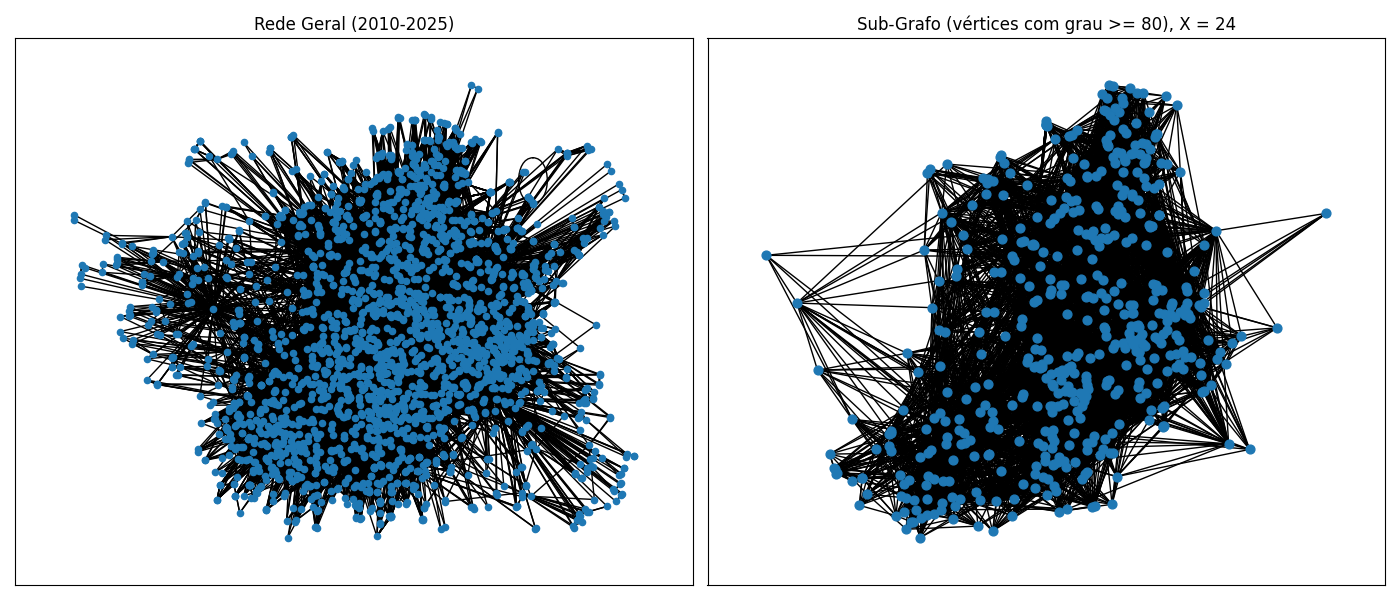
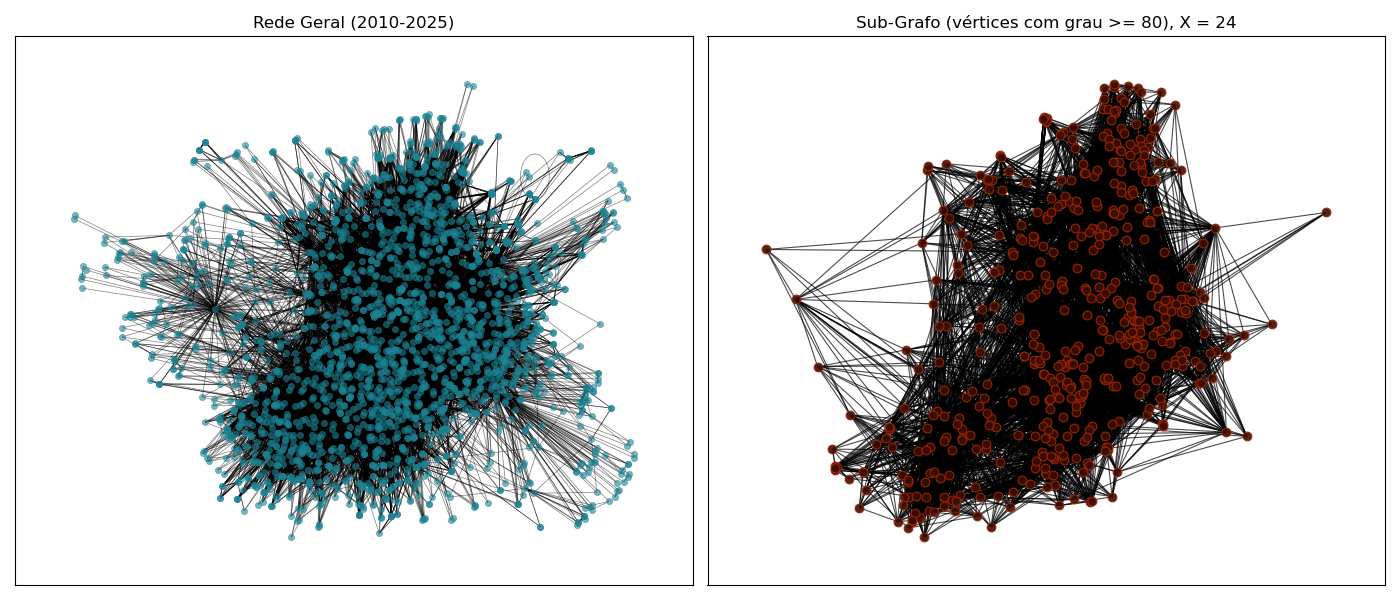
graf ready

diff --git a/R3.py b/R3.py
@@ -84,6 +84,7 @@ def comparar_densidade(rede_geral: nx.Graph, subgrafo: nx.Graph):
 # =============================================================================
 # PASSO 5: Visualizar a rede geral e o sub-grafo
 # =============================================================================
+
 def visualizar_grafos(rede_geral: nx.Graph, subgrafo: nx.Graph):
     # Utiliza o mesmo layout para facilitar comparação
     pos = nx.spring_layout(rede_geral, seed=42)  # fixa o seed para consistência
@@ -91,22 +92,48 @@ def visualizar_grafos(rede_geral: nx.Graph, subgrafo: nx.Graph):
     
     # Plotando a rede geral
     plt.subplot(1, 2, 1)
-    nx.draw_networkx(rede_geral, pos=pos, node_size=20, with_labels=False)
-    plt.title("Rede Geral (2010-2025)")
+    # Arestas
+    nx.draw_networkx_edges(rede_geral, pos=pos,
+                        edge_color='black',
+                        width=0.5,
+                        alpha=0.5)
+    # Nós
+    nx.draw_networkx_nodes(rede_geral, pos=pos,
+                        node_color="#1C8394",
+                        node_size=20,
+                        alpha=0.6,
+                        edgecolors='#1C8394',
+                        linewidths=0.5)
     
+    # Labels (não exibido para não poluir)
+    plt.title("Rede Geral (2010-2025)", fontsize=12)
+
     # Plotando o sub-grafo
     plt.subplot(1, 2, 2)
-    nx.draw_networkx(subgrafo, pos=pos, node_size=40, with_labels=False)
-    plt.title("Sub-Grafo (vértices com grau >= 80), X = 24")
+    # Arestas
+    nx.draw_networkx_edges(subgrafo, pos=pos,
+                           edge_color='black',
+                           width=0.8,
+                           alpha=0.7)
+    # Nós
+    nx.draw_networkx_nodes(subgrafo, pos=pos,
+                        node_color="#390D02",
+                        node_size=40,
+                        alpha=0.9, 
+                        edgecolors='#A52502',
+                        linewidths=0.8)
+    
+    # Labels (também oculto)
+    plt.title("Sub-Grafo (vértices com grau >= 80), X = 24", fontsize=12)
     
     plt.tight_layout()
-    plt.show() 
+    plt.show()
 
 
 # =============================================================================
 # PASSO 6: Analisar a rede ego de um vértice escolhido
 # =============================================================================
-def analisar_rede_ego(rede_geral: nx.Graph, no_escolhido=None):
+""" def analisar_rede_ego(rede_geral: nx.Graph, no_escolhido=None):
     # Se nenhum nodo for especificado, escolhe o de maior grau
     if no_escolhido is None:
         no_escolhido = max(rede_geral.degree, key=lambda x: x[1])[0]
@@ -130,7 +157,8 @@ def analisar_rede_ego(rede_geral: nx.Graph, no_escolhido=None):
     
     nx.draw_networkx_nodes(ego, pos=pos,
                         node_color='#1C8394',
-                        node_size=100)
+                        alpha=0.8,
+                        node_size=50)
     
     #nx.draw_networkx_labels(ego, pos=pos, font_size=10, font_color='black')
 
@@ -138,6 +166,74 @@ def analisar_rede_ego(rede_geral: nx.Graph, no_escolhido=None):
     plt.show()
     
     return ego
+ """
+
+def analisar_rede_ego(rede_geral: nx.Graph, no_escolhido=None):
+    # Se nenhum nodo for especificado, escolhe o de maior grau
+    if no_escolhido is None:
+        no_escolhido = max(rede_geral.degree, key=lambda x: x[1])[0]
+    ego = nx.ego_graph(rede_geral, no_escolhido)
+
+    # Calcula métricas básicas
+    grau_nodo = rede_geral.degree[no_escolhido]
+    densidade_ego = nx.density(ego)
+    num_nos = ego.number_of_nodes()
+    num_arestas = ego.number_of_edges()
+    grau_medio = sum(dict(ego.degree()).values()) / num_nos
+    clustering_medio = nx.average_clustering(ego)
+
+    # Tenta calcular o diâmetro (só se o grafo for conexo)
+    try:
+        diametro = nx.diameter(ego)
+    except nx.exception.NetworkXError:
+        diametro = "Grafo não conexo"
+
+    vizinhos = list(ego.neighbors(no_escolhido))
+
+    print(f"--- Análise da Rede Ego ---")
+    print(f"Nó escolhido: {no_escolhido}")
+    print(f"Grau do nodo na rede geral: {grau_nodo}")
+    print(f"Número de nós na rede ego: {num_nos}")
+    print(f"Número de arestas na rede ego: {num_arestas}")
+    print(f"Grau médio: {grau_medio:.2f}")
+    print(f"Densidade: {densidade_ego:.4f}")
+    print(f"Clustering médio: {clustering_medio:.4f}")
+    print(f"Diâmetro: {diametro}")
+    print(f"Vizinhos do nó: {vizinhos}")
+
+    # Visualização
+    plt.figure(figsize=(6, 6))
+    pos = nx.spring_layout(ego, seed=42)
+
+    # Destaca o nó central
+    node_colors = []
+    for node in ego.nodes():
+        if node == no_escolhido:
+            node_colors.append('#FF5733')  # Cor especial para o centro
+        else:
+            node_colors.append('#1C8394')  # Outros nós
+
+    nx.draw_networkx_edges(ego, pos=pos, edge_color='black', width=1.5)
+    nx.draw_networkx_nodes(ego, pos=pos, node_color=node_colors, alpha=0.8, node_size=80)
+
+    plt.title(f"Rede Ego do vértice: {no_escolhido}")
+    plt.axis('off')
+    plt.show()
+
+    # Retorna o grafo e informações úteis
+    info = {
+        "no_central": no_escolhido,
+        "grau_no_geral": grau_nodo,
+        "num_nos": num_nos,
+        "num_arestas": num_arestas,
+        "grau_medio": grau_medio,
+        "densidade": densidade_ego,
+        "clustering_medio": clustering_medio,
+        "diametro": diametro,
+        "vizinhos": vizinhos
+    }
+
+    return ego, info
 
 # =============================================================================
 # MAIN: Execução do script expandido
@@ -168,7 +264,7 @@ def main_expanded():
     visualizar_grafos(rede_geral, subgrafo)
     
     # Analisar a rede ego de um vértice escolhido (o de maior grau por padrão)
-    analisar_rede_ego(rede_geral)
+    analisar_rede_ego(rede_geral, no_escolhido="36537969500")
     
     # INTERPRETAÇÃO DOS RESULTADOS:
     #
